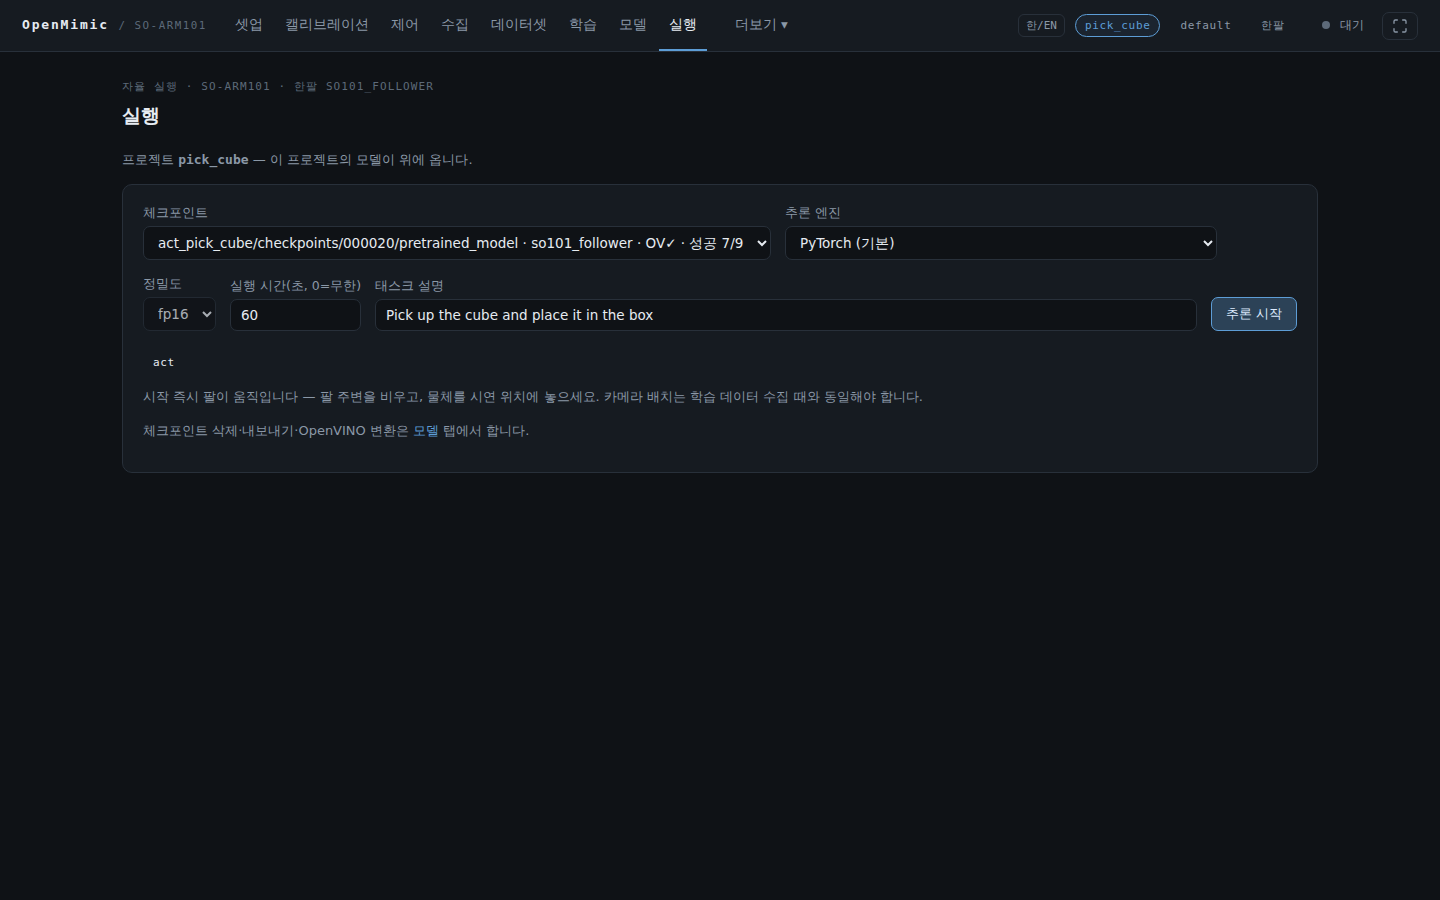
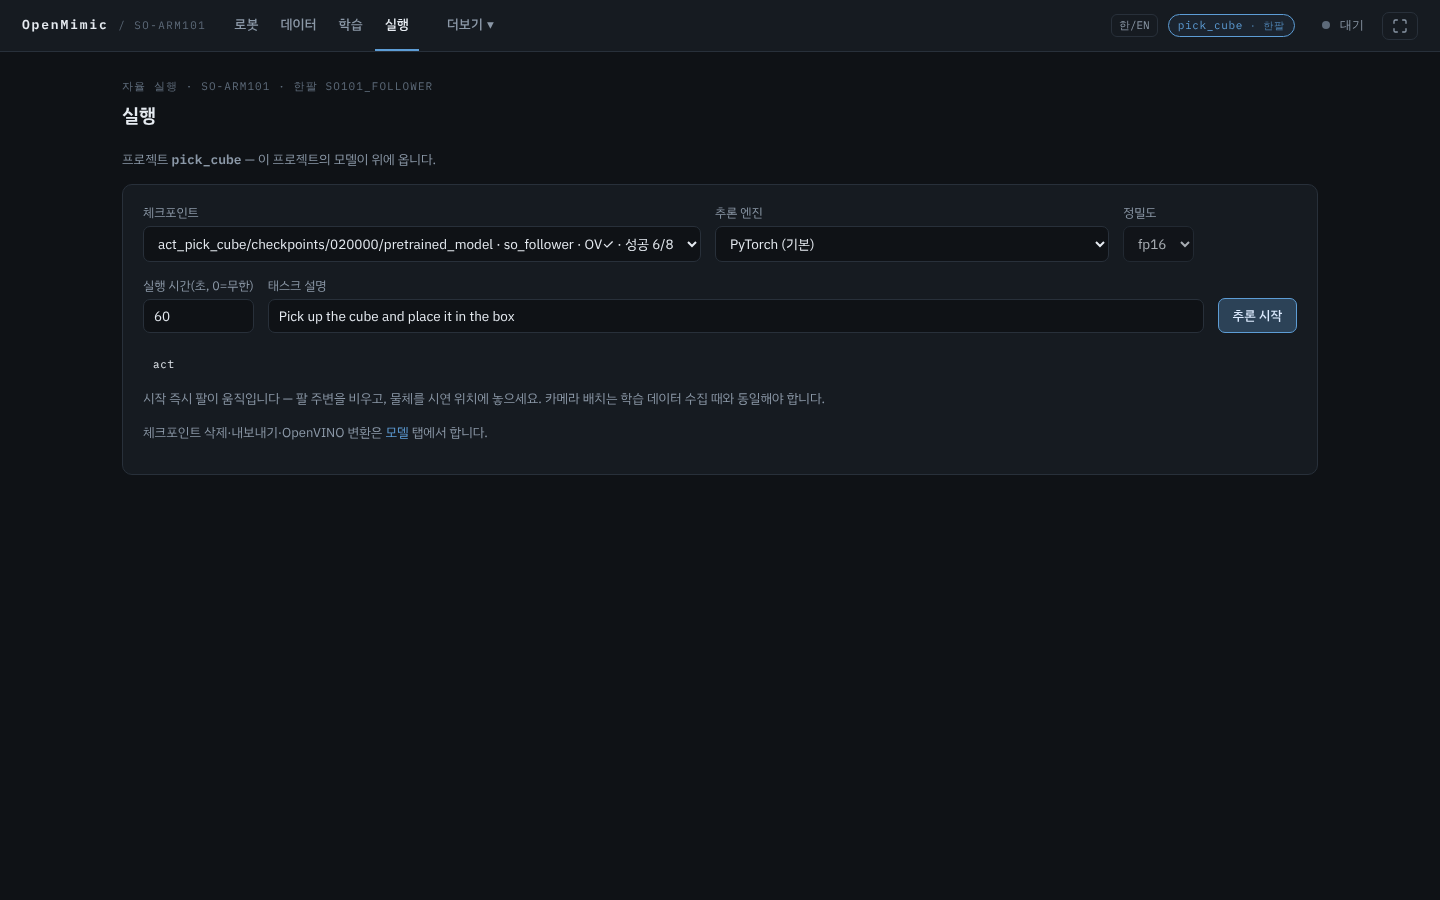
문서 스크린샷을 새 화면 구조로 교체, 남은 '환경' 표시 정리
- 데이터셋·포트·카메라·캘리브레이션·모델·프로젝트·허브·수집·실행·학습·리뷰·영어 화면은 새로 촬영
- 실기 화면(수집 진행·제어·실행 중·셋업 마법사 5장)은 상단 탭 바(마법사는 소개·기종 줄까지)만 새 화면으로 바꾸고,
  예전 '카메라 · 환경' 안내 카드는 잘라냄
- 셋업 마법사: 카메라 안내 링크를 '포트·카메라' 탭으로, 기종 줄의 환경 문구 삭제, 완료 문구에서 '환경' 삭제
- 수집 화면 프로젝트 줄과 데이터셋 리뷰 칩에서 환경 이름 표시 삭제

Claude-Session: https://claude.ai/code/session_01B6FQN7Hy1CAMPD2WzLQir3

diff --git a/main.py b/main.py
@@ -3663,14 +3663,14 @@ def collect_page(resume: str = ""):
     task0 = (pr["task"] if pr and pr["task"] else CFG["default_task"])
     name_hint = f"{pname}_v{len(mine) + 1}" if pname else "pick_place_v2"
     if pname:
-        projline = (f'<p class=muted>프로젝트 <b class=mono>{esc(pname)}</b> · 환경 <b class=mono>{esc(env_name())}</b>'
+        projline = (f'<p class=muted>프로젝트 <b class=mono>{esc(pname)}</b>'
                     f' — 새 데이터셋은 이 프로젝트에 자동으로 들어갑니다.</p>')
         if pr["env"] and pr["env"] != env_name():
             projline += (f'<p class="badge b-warn">이 프로젝트의 환경은 {esc(pr["env"])} 인데 지금은 {esc(env_name())} 입니다 — '
                          f'<a href="/projects">프로젝트</a>에서 다시 열면 그 환경으로 바뀝니다.</p>')
     else:
-        projline = (f'<p class=muted>환경 <b class=mono>{esc(env_name())}</b> · 프로젝트 없이 수집합니다 — '
-                    f'<a href="/projects">프로젝트</a>를 열면 태스크 설명과 이름이 채워지고 데이터셋이 묶입니다.</p>')
+        projline = ('<p class=muted>프로젝트 없이 수집합니다 — '
+                    '<a href="/projects">프로젝트</a>를 열면 태스크 설명과 이름이 채워지고 데이터셋이 묶입니다.</p>')
     return f"""{CSS}{nav_html('co')}<div class=wrap>
     <p class=eyebrow>원격조작 녹화 · {esc(kind()["label"])} · {"양팔 " + kind()["cli"]["bi_follower"] if BIMANUAL else "한팔 " + kind()["cli"]["follower"]}</p><h2>수집</h2>
     {busywarn}{projline}
@@ -7787,7 +7787,7 @@ document.addEventListener('keydown',ev=>{
   const chip=(t,cls)=>'<span class="badge '+(cls||'')+'" style="margin-right:4px">'+E(t)+'</span>';
   $('chips').innerHTML=chip(INFO.episodes.length+' 에피소드')+chip(INFO.fps+' fps')+chip(INFO.robot_type||'robot ?')
     +(INFO.version?chip(INFO.version, INFO.version==='v3.0'?'':'b-warn'):'')
-    +(INFO.env?chip('환경 '+INFO.env):'')+(INFO.project?'<a href="/projects">'+chip('프로젝트 '+INFO.project,'b-run')+'</a>':'');
+    +(INFO.project?'<a href="/projects">'+chip('프로젝트 '+INFO.project,'b-run')+'</a>':'');
   paintDel(); buildList();
   if(!INFO.episodes.length){ $('vgrid').innerHTML='<p class=muted style="padding:14px;margin:0">에피소드가 없습니다</p>'; return; }
   const want=parseInt(new URLSearchParams(location.search).get('ep'));
@@ -7849,7 +7849,7 @@ tr.best td{background:rgba(76,175,110,.10)}
 <div class=wrap>
 <p class=eyebrow>처음 설정</p><h2>셋업 마법사</h2>
 <p class=muted style="max-width:900px">팔(보드) 하나씩 <b>포트 찾기 → 진단 → 캘리브레이션 → 확인</b> 순서로 안내합니다.
-모터를 구동하는 단계는 없습니다 — 손으로 움직여서 확인합니다. 카메라는 <a href="/setup#cameras">셋업</a> 탭에서 합니다.</p>
+모터를 구동하는 단계는 없습니다 — 손으로 움직여서 확인합니다. 카메라는 <a href="/setup#cameras">포트·카메라</a> 탭에서 합니다.</p>
 <div class=modebar id=modebar></div>
 <div id=busy></div>
 <div class=wgrid id=over></div>
@@ -7893,8 +7893,7 @@ function paintMode(){
   Object.keys(W.robots).forEach(r=>{ h+='<button data-robot="'+E(r)+'" class="'+(W.robot===r?'primary':'')+'">'+E(W.robots[r])+'</button>'; });
   h+='<span style="width:14px"></span><span class=muted>구성</span>'
     +'<button id=wm1 class="'+(bi?'':'primary')+'">한팔</button>'
-    +'<button id=wm2 class="'+(bi?'primary':'')+'">양팔 (left / right)</button>'
-    +'<span class=tiny>환경 <span class=mono>'+E(W.env)+'</span> · 바꾸면 이 환경 설정이 바뀝니다</span>';
+    +'<button id=wm2 class="'+(bi?'primary':'')+'">양팔 (left / right)</button>';
   if(W.plugin_missing && W.plugin_missing.length)
     h+='<p class="badge b-warn" style="flex-basis:100%">양팔 '+E(W.robot_label)+' 롤아웃에 필요한 플러그인 미설치 — 터미널: pip install --no-deps '
       +W.plugin_missing.map(m=>'-e plugins/'+E(m)).join(' ')+'</p>';
@@ -8261,7 +8260,7 @@ async function stepVerify(s){
   $('wok').onclick=async()=>{ const r=await jpost('/api/wizard/verified',{side:SLOT.side,role:SLOT.role}); if(r.error){ alert(r.error); return; } W=r; stopTimers(); STEP=null; ARM=null; paintOver(); paintAfter();
     const nx=W.slots.find(x=>{ const d=doneOf(x); return !(d.port&&d.calib&&d.verify); });
     $('wiz').innerHTML='<div class=wpanel><p class="note ok"><b>'+E(SLOT.side)+' · '+RL[SLOT.role]+'</b> 확인 완료</p>'
-      +(nx?'<button class=primary id=wnx>다음 팔: '+E(nx.side)+' · '+RL[nx.role]+'</button>':'<p>모든 팔이 준비됐습니다. 아래에서 카메라와 환경을 확인하세요.</p>')+'</div>';
+      +(nx?'<button class=primary id=wnx>다음 팔: '+E(nx.side)+' · '+RL[nx.role]+'</button>':'<p>모든 팔이 준비됐습니다. 아래에서 카메라를 확인하세요.</p>')+'</div>';
     if(nx) $('wnx').onclick=()=>openSlot(nx.side,nx.role); };
   const r=await jpost('/api/wizard/verify/start',{side:SLOT.side,role:SLOT.role});
   if(STEP!=='verify') { jpost('/api/wizard/verify/stop'); return; }
